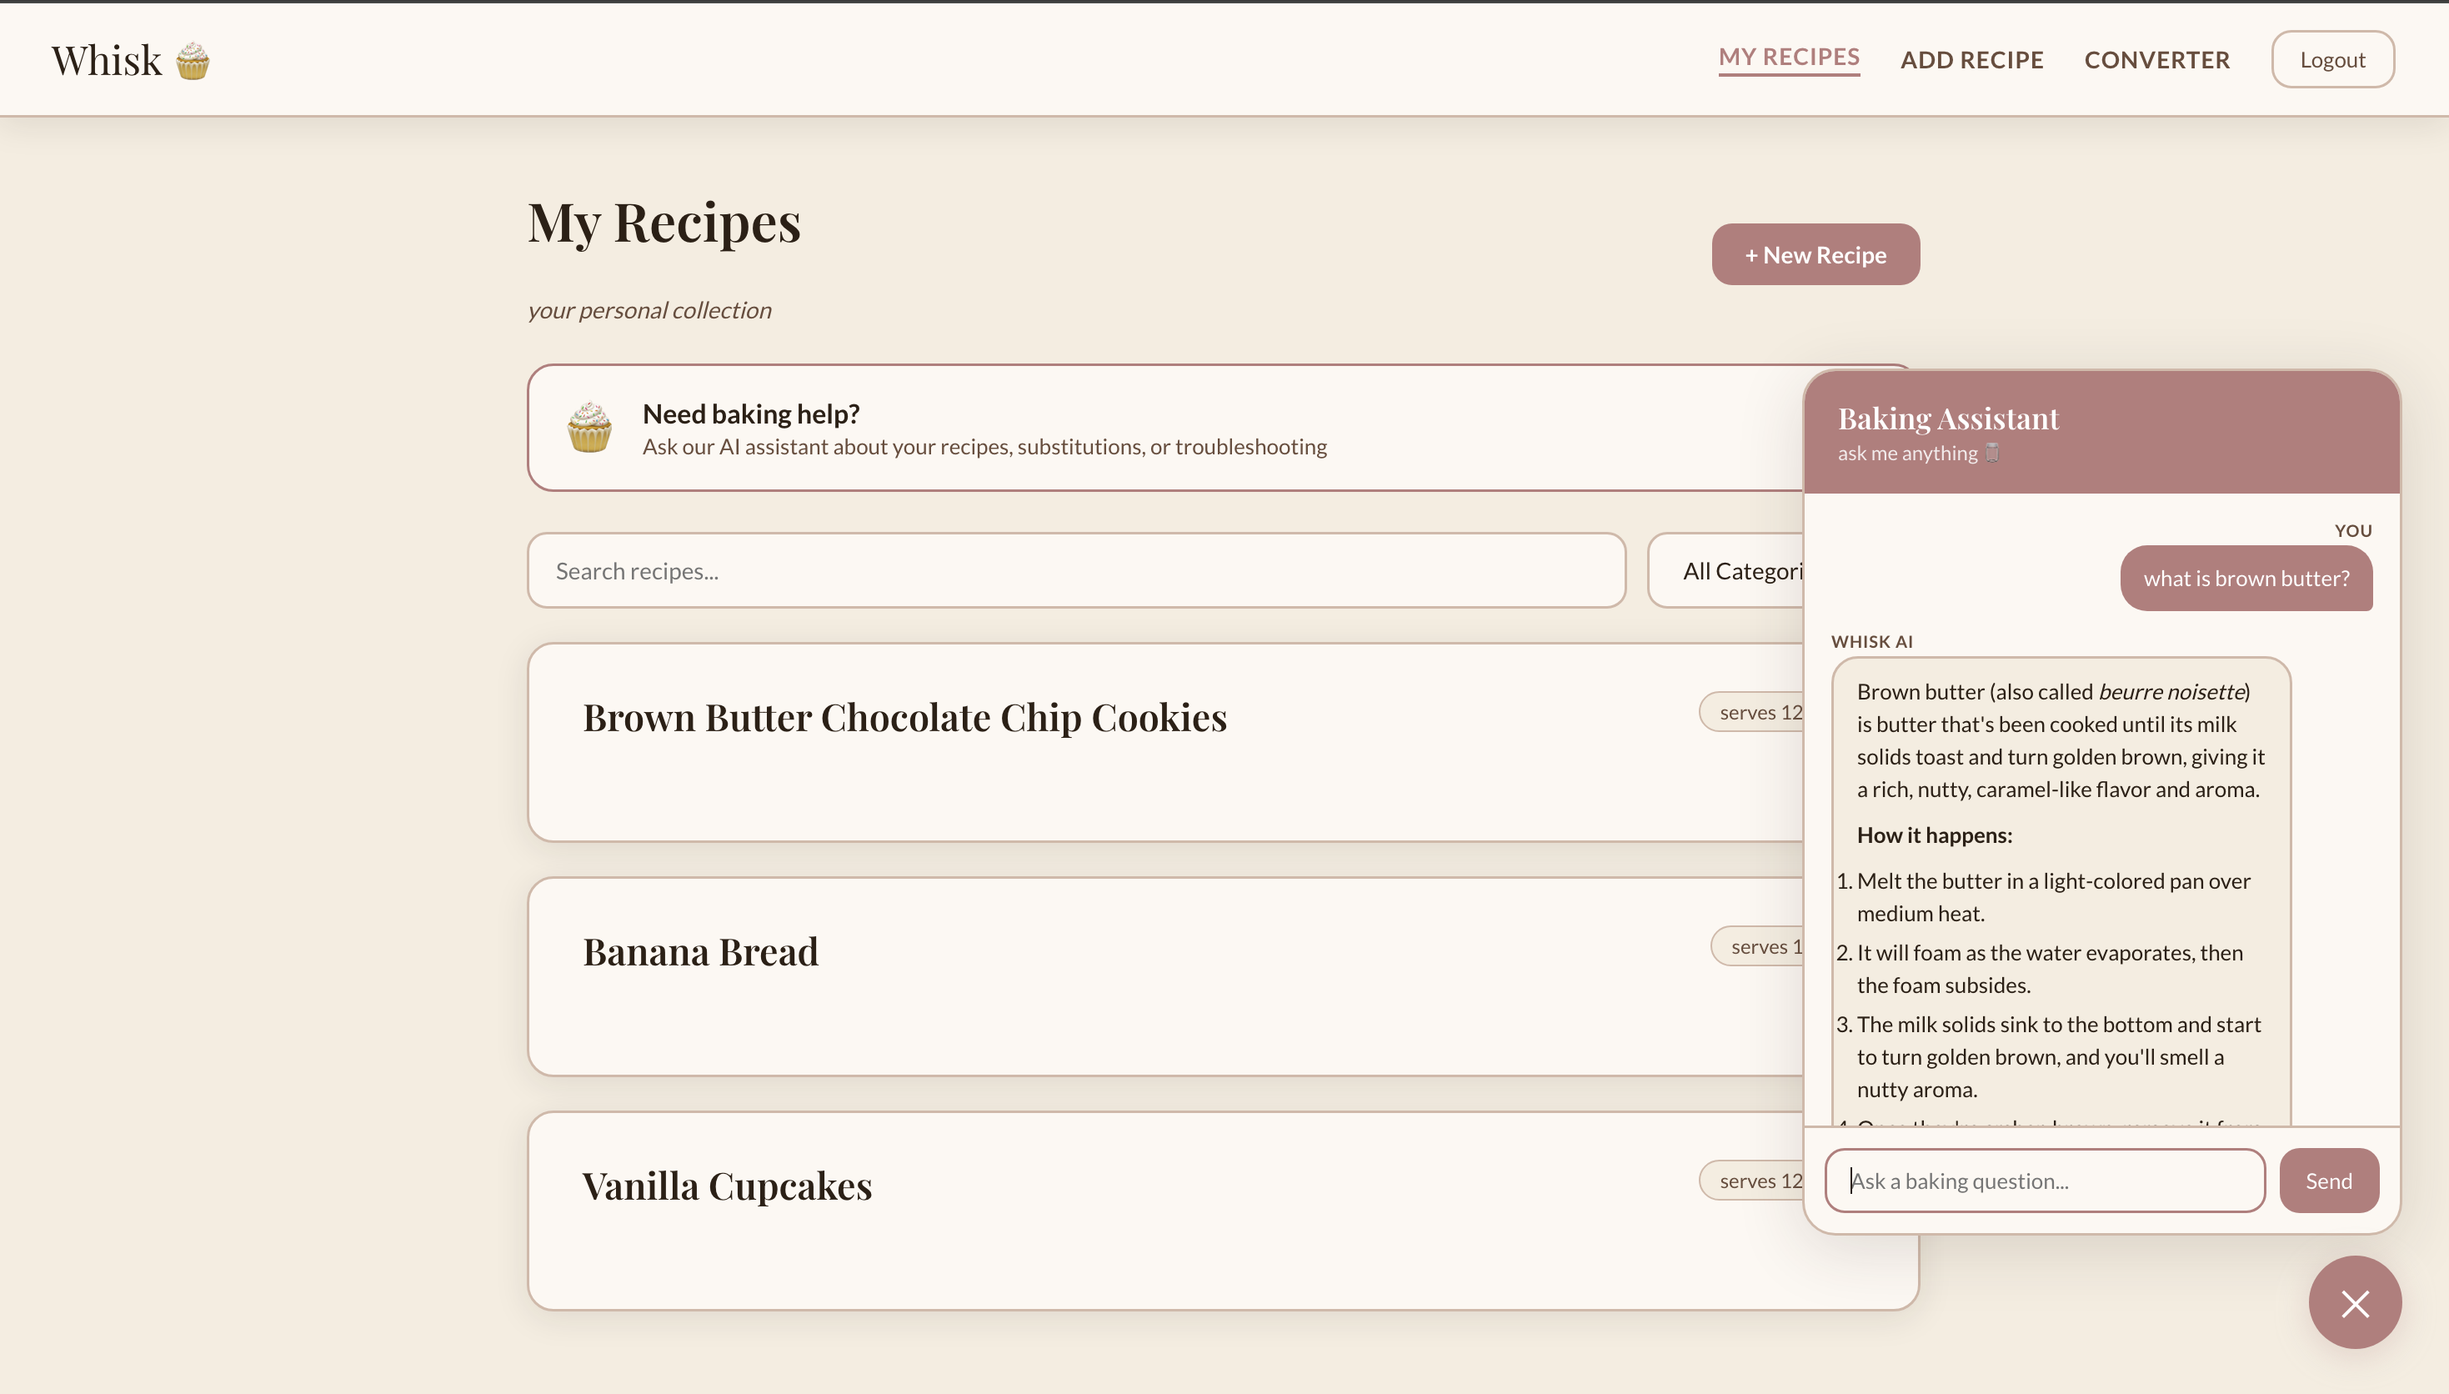
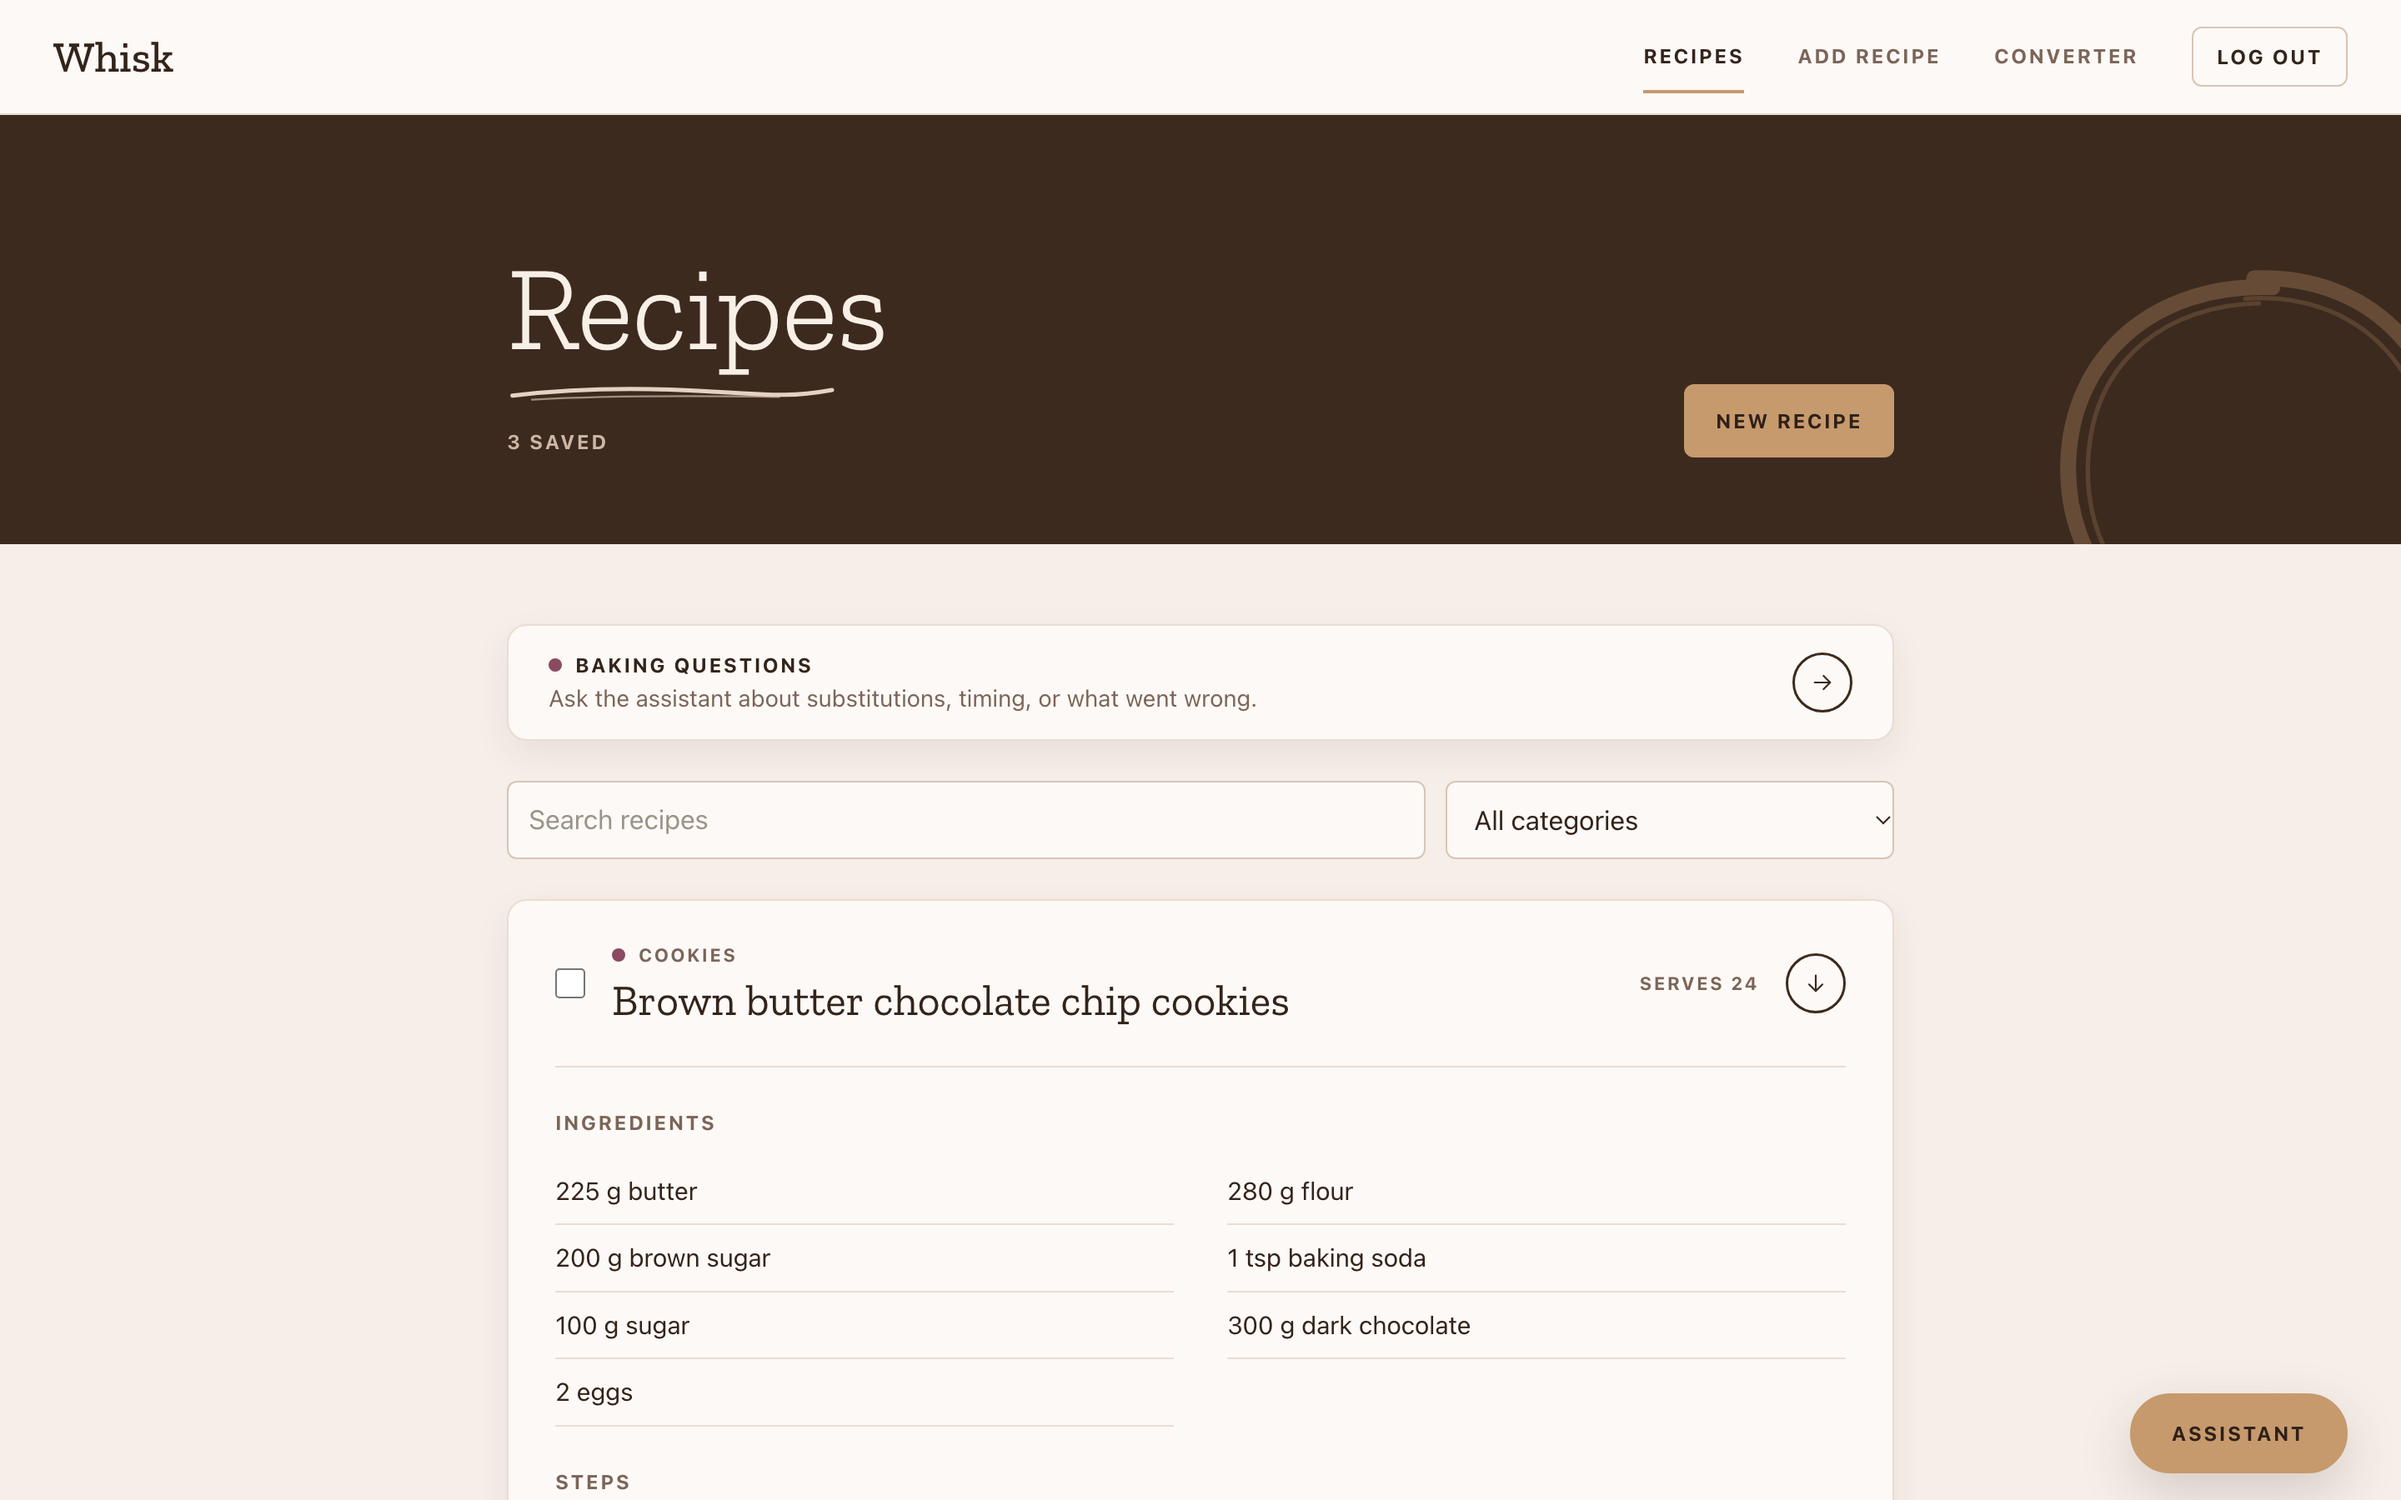
Update README and screenshot for redesign and recent changes

diff --git a/README.md b/README.md
@@ -9,10 +9,14 @@ The backend runs on a free tier and sleeps when idle, so the first load after a 
 
 ## Features
 
-- Account signup and login with JWT authentication and bcrypt password hashing
+- Account signup and login with JWT authentication and bcrypt password hashing; logins last 7 days
 - Create, edit, delete, and categorize recipes, stored per user
-- Ingredient-aware unit converter (grams to cups, metric to US)
-- Baking assistant powered by Claude that can generate recipes and answer measurement and troubleshooting questions, using the user's saved recipes as context
+- Search by title, filter by category, and page through recipes 10 at a time
+- Scale a recipe to a different number of servings
+- Shopping list built from the recipes you select, with checkboxes
+- Ingredient-aware unit converter between grams, cups, and teaspoons
+- Baking assistant powered by Claude that answers measurement, substitution, and troubleshooting questions, using the user's saved recipes as context
+- Responsive layout for phones and desktop
 
 ## Tech stack
 
@@ -27,6 +31,10 @@ Browser -> React app (Vercel) -> Flask REST API (Render) -> PostgreSQL (Neon)
                                         |
                                         -> Anthropic API
 
+## Design
+
+The interface uses a warm bakery palette (chocolate, blush cream, caramel), Zilla Slab headings, and small uppercase labels. Colors, type sizes, and spacing are defined once as CSS variables in `frontend/src/styles.css`, and text scales with screen width. Form inputs use 16px text so phones don't zoom in on focus.
+
 ## Design decisions
 
 - The Anthropic key stays on the server, and the chat endpoint requires login.
@@ -34,6 +42,11 @@ Browser -> React app (Vercel) -> Flask REST API (Render) -> PostgreSQL (Neon)
 - The assistant reads the user's recipes from the database instead of trusting data sent by the browser.
 - CORS allows only the deployed frontend origin.
 - Configuration comes from environment variables, with SQLite as the local default and Postgres in production.
+- Recipe input is validated on the server (required fields, lengths that match the database columns, servings from 1 to 1000), so bad input returns a clear 400 instead of a server error. The converter validates its input the same way.
+- Normal browsing has a generous rate limit (300 requests per hour per IP); signup, login, and chat have stricter limits.
+- The frontend sends every request through two small helpers in `frontend/src/api.js`. The logged-in helper adds the token and returns the user to the login page if it has expired.
+- Recipes are fetched individually by ID, so edit pages survive a refresh or a shared link.
+- On page load the frontend pings the backend to start waking it from free-tier sleep.
 
 ## Run locally
 
@@ -69,6 +82,16 @@ npm start
 
 The app runs at http://localhost:3000 and the API at http://127.0.0.1:5000.
 
+## Tests
+
+The backend has a pytest suite covering signup, login, rate limits, recipe CRUD, input validation, per-user access, and the converter. Tests use an in-memory SQLite database, so they never touch your local data.
+
+```
+pip install -r backend/requirements-dev.txt
+cd backend
+pytest
+```
+
 ## Environment variables
 
 | Variable | Purpose |
@@ -77,9 +100,12 @@ The app runs at http://localhost:3000 and the API at http://127.0.0.1:5000.
 | `ANTHROPIC_API_KEY` | Enables the baking assistant |
 | `DATABASE_URL` | Postgres connection string (defaults to local SQLite) |
 | `FRONTEND_ORIGIN` | Allowed CORS origin (defaults to http://localhost:3000) |
-| `REACT_APP_API_URL` | Backend URL used by the frontend build |
+| `REACT_APP_API_URL` | Backend URL used by the frontend build (set it before building; Create React App fills it in at build time) |
+| `RATELIMIT_STORAGE_URI` | Optional shared store for rate limits, such as a Redis URL (defaults to in-memory) |
 
 ## Roadmap
 
-- CI to run the backend tests on every push
+- CI to run the backend tests and frontend build on every push
+- Database migrations (Flask-Migrate) instead of `db.create_all()`
 - Shared rate limiting across instances
+- Keep the assistant's conversation history between questions and across pages
